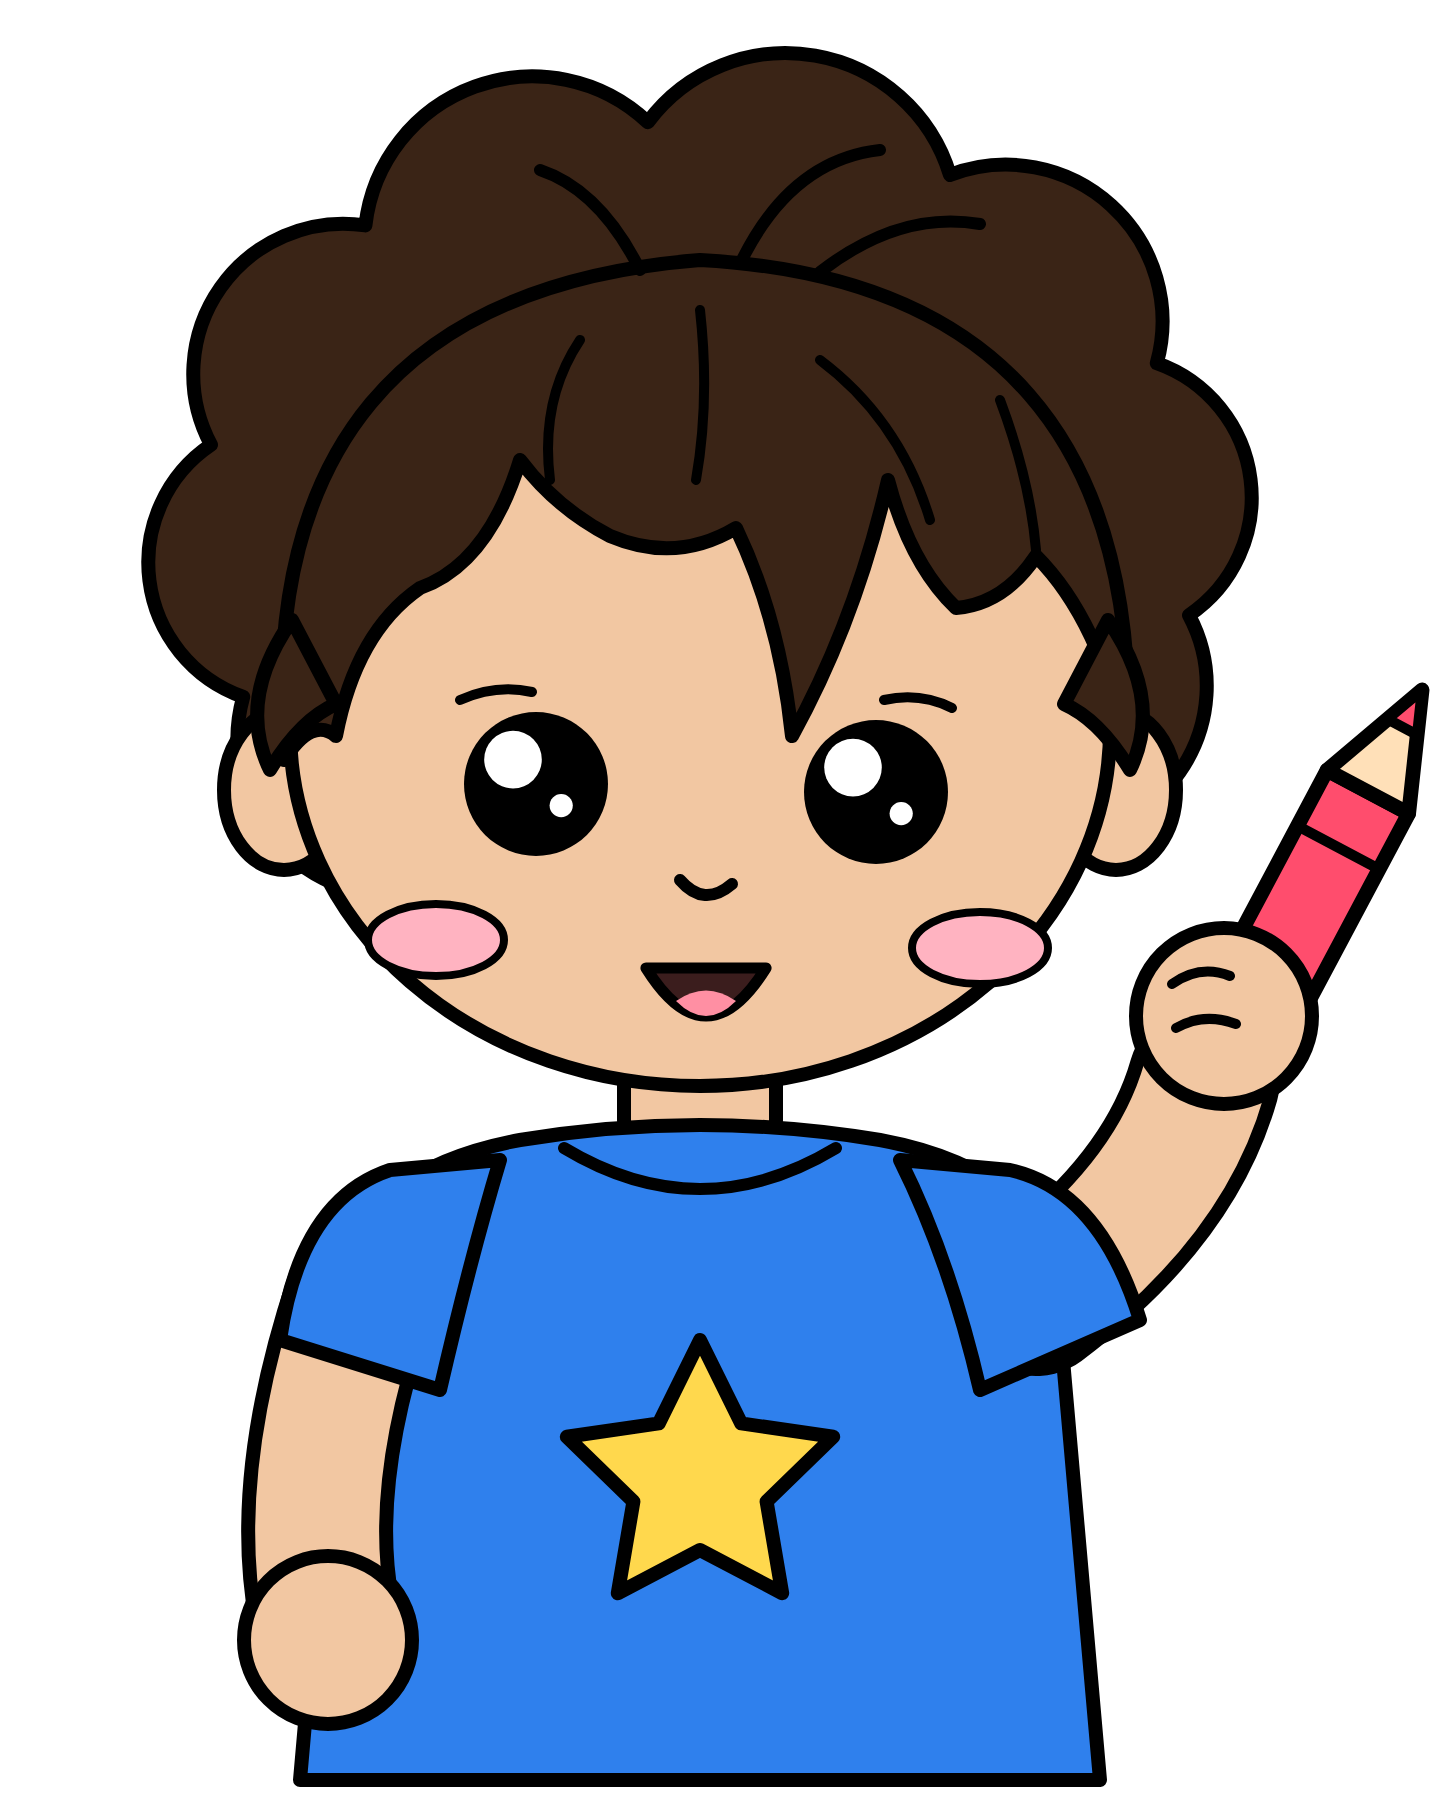
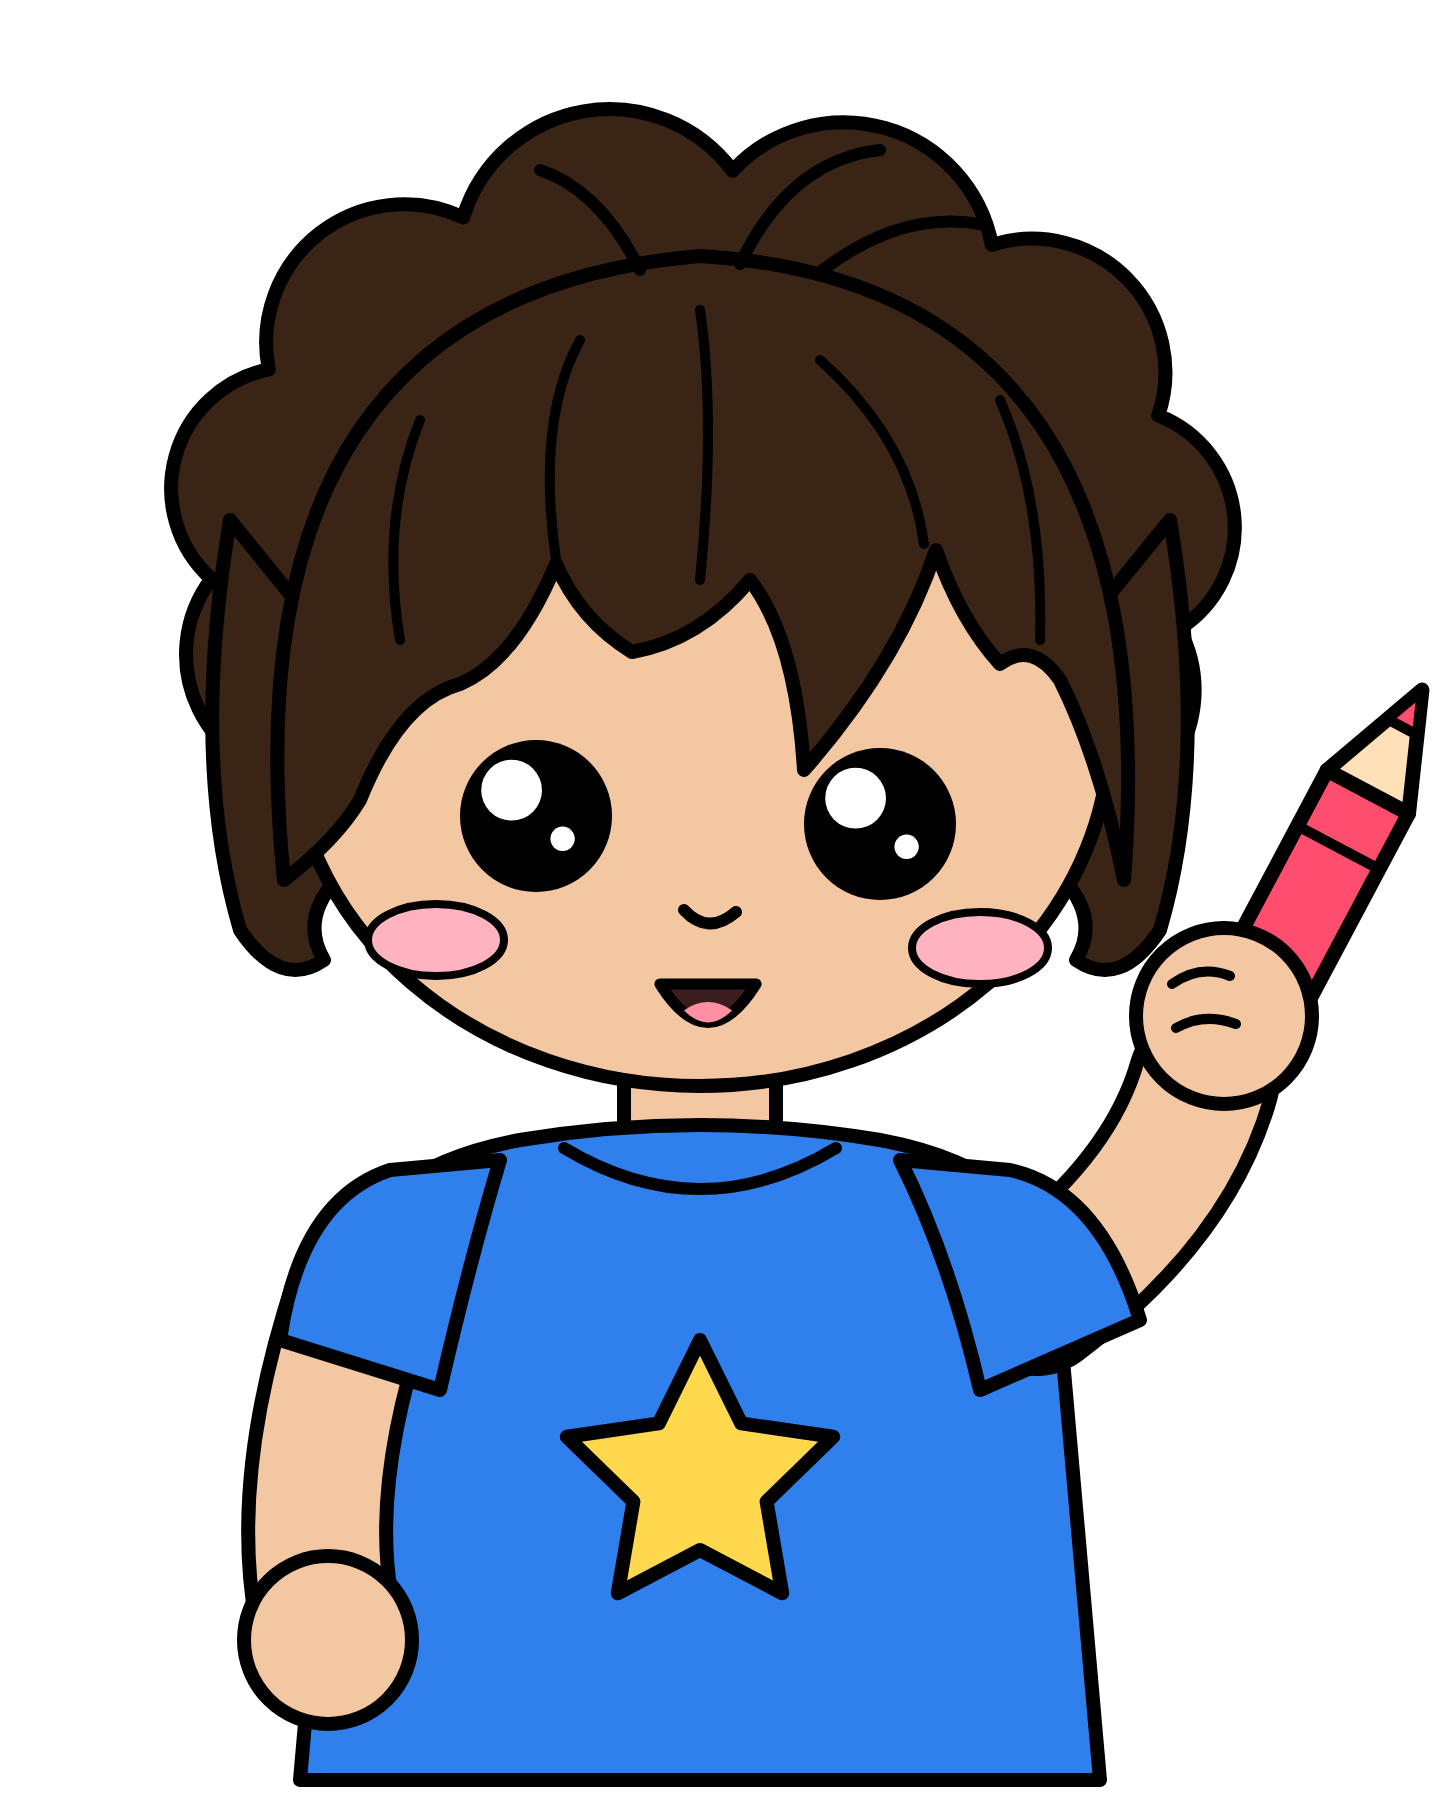
Refine Baby Yusuf mascot likeness (draft, pending approval)
Covers are not rebuilt yet; they still use the previous mascot.

Claude-Session: https://claude.ai/code/session_01JdB6XrBX6nHEPMGmo1bDVP

diff --git a/coloring-books/mascot.py b/coloring-books/mascot.py
@@ -18,7 +18,9 @@ def yusuf(c, crayon=True):
     sk, hr, sh = c(SKIN), c(HAIR), c(SHIRT)
     o = ""
     # back hair: full, messy, wavy volume ending around the ears
-    o += fluffy(500, 385, 250, 10, hr, ry=205, rot=12)
+    o += fluffy(500, 395, 245, 11, hr, ry=190, rot=12)
+    o += path("M265,380Q245,500 270,585Q290,615 312,600Q300,580 318,560Q335,520 330,460Z", hr)
+    o += path("M735,380Q755,500 730,585Q710,615 688,600Q700,580 682,560Q665,520 670,460Z", hr)
     # body: t-shirt + arms
     o += rect(462, 630, 76, 70, 20, sk)
     o += path("M300,1010L322,760Q330,705 410,690Q500,675 590,690Q670,705 678,760L700,1010Z", sh)
@@ -35,21 +37,18 @@ def yusuf(c, crayon=True):
         o += tube("M670,770Q700,860 688,925", 62, sk) + circle(686, 940, 42, sk)
         o += path("M655,705Q700,720 710,790L630,815Q615,750 600,700Z", sh)
     # ears + face
-    o += ellipse(292, 515, 30, 40, sk) + ellipse(708, 515, 30, 40, sk)
     o += ellipse(500, 485, 205, 178, sk)
     # face
-    o += eye(418, 512, 36) + eye(588, 516, 36)
-    o += line("M380,470Q398,462 416,466M592,470Q610,466 626,474", 5)
-    o += line("M490,560Q502,574 516,562", 6)
-    o += open_smile(503, 604, 30, c)
+    o += eye(418, 528, 38) + eye(590, 532, 38)
+    o += line("M492,575Q504,588 518,576", 6)
+    o += open_smile(504, 612, 24, c)
     o += blush(368, 590, c, 34, 18) + blush(640, 594, c, 34, 18)
     # front hair: messy fringe with the long lock between the eyes
-    o += path("M292,500Q275,268 500,250Q722,262 714,495Q700,430 668,398Q652,422 628,424Q605,402 594,360Q578,430 546,488Q540,430 518,384Q488,402 455,388Q428,374 410,350Q394,402 360,414Q328,436 318,488Q306,478 292,500Z", hr)
-    o += line("M560,300Q600,330 615,380M440,290Q420,320 425,360M500,275Q505,320 498,360M650,320Q665,360 668,395", 5)
+    o += path("M292,560Q262,268 500,248Q735,262 712,560Q700,500 680,460Q666,440 650,452Q630,430 618,395Q600,450 552,505Q548,440 525,410Q500,440 466,446Q440,430 428,402Q408,450 380,462Q350,470 330,520Q318,540 292,560Z", hr)
+    o += line("M560,300Q605,340 612,392M440,290Q418,330 428,400M500,275Q508,330 500,410M650,320Q672,370 670,440M360,330Q340,380 350,440", 5)
     # wispy strands on top
     o += line("M470,255Q450,215 420,205M520,252Q545,200 590,195M560,256Q600,225 640,232", 6)
     # little curls over the ears
-    o += path("M296,430Q268,470 285,505Q300,480 318,472Z", hr) + path("M704,430Q732,470 715,505Q700,480 682,472Z", hr)
     return o
 
 
